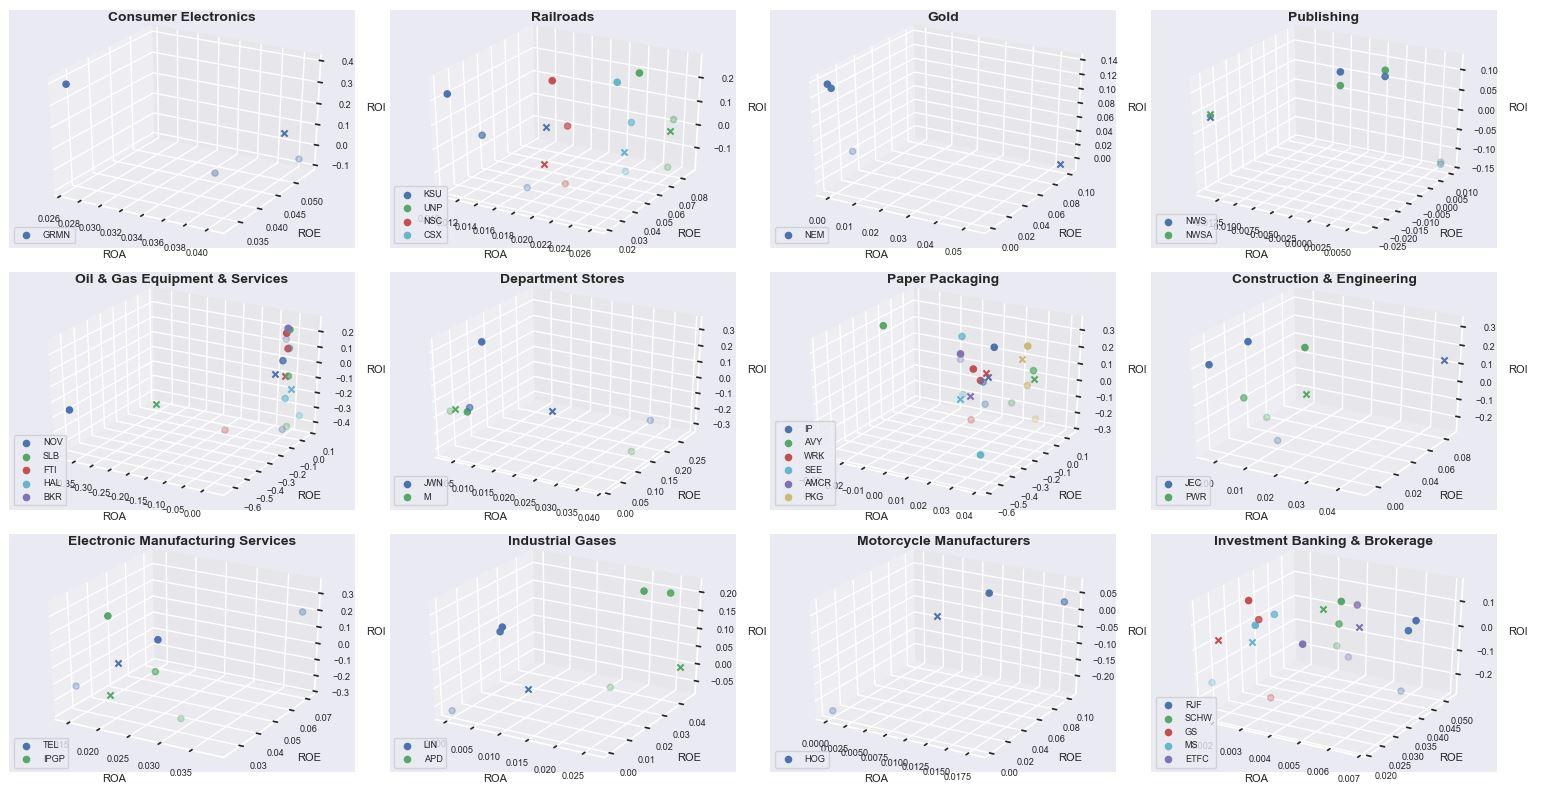
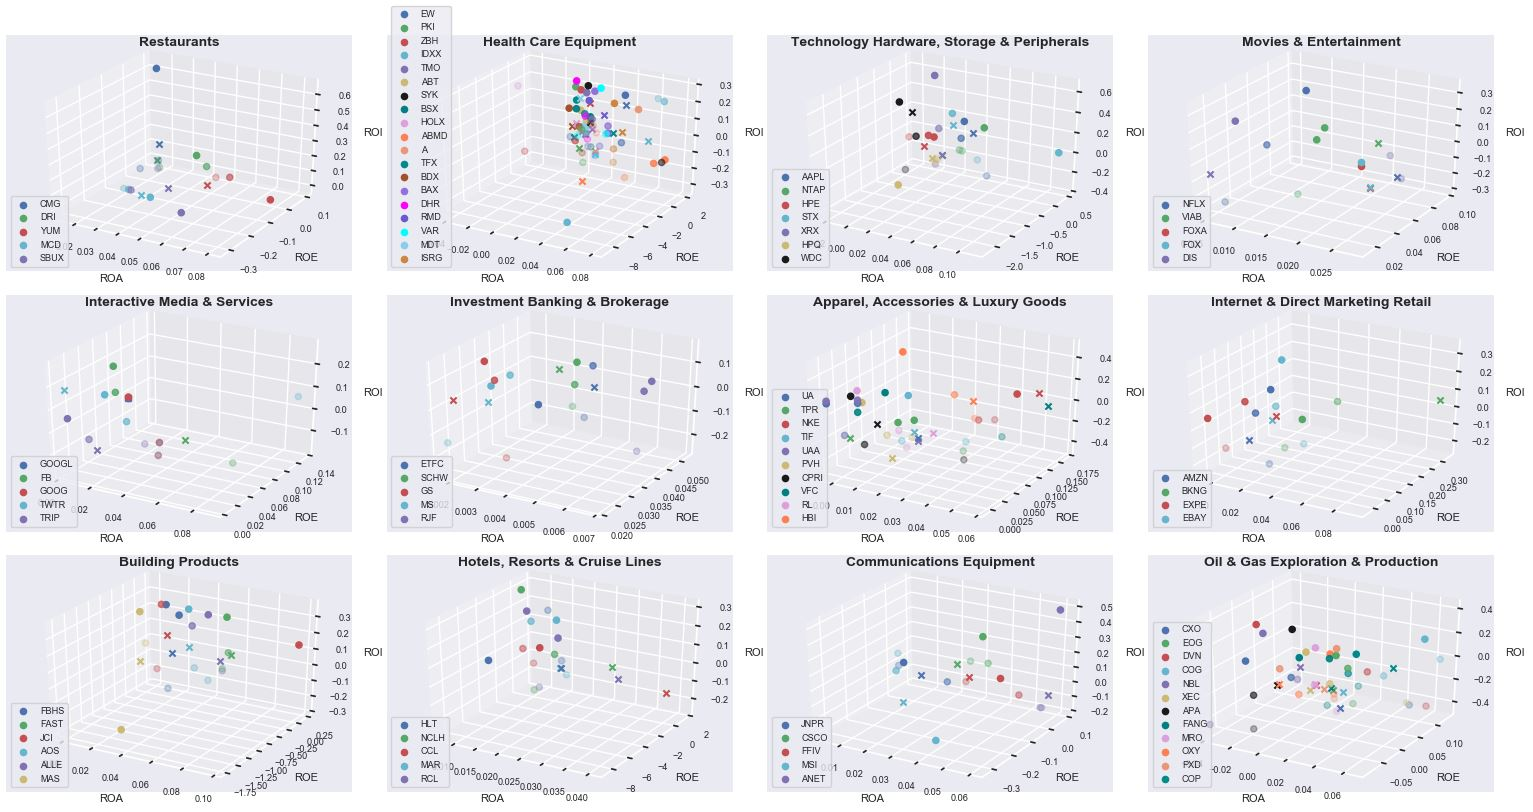
editing third post

diff --git a/_posts/2019-12-13-sector_fundamentals_plotting.md b/_posts/2019-12-13-sector_fundamentals_plotting.md
@@ -176,29 +176,12 @@ for i in range(1, 13):
 
 Here's the what the plot looks like:
 
+
+[![](/assets/images/sector_fundamentals_plotting/ROA,ROE,ROI_industry_plot.JPG)](/assets/images/sector_fundamentals_plotting/ROA,ROE,ROI_industry_plot.JPG)
+
+
 There are 4 points on each scatter that are the same color which shows that they are from the same company. You'll also notice that there are dots and x's in the scatter, the x's show the calculation using the most recent quarterly financials. 
 
-[![](/assets/images/sector_fundamentals_plotting/ROA,ROE,ROI_industry_plot0.JPG)](/assets/images/sector_fundamentals_plotting/ROA,ROE,ROI_industry_plot0.JPG)
-
-[![](/assets/images/sector_fundamentals_plotting/ROA,ROE,ROI_industry_plot1.JPG)](/assets/images/sector_fundamentals_plotting/ROA,ROE,ROI_industry_plot1.JPG)
-
-[![](/assets/images/sector_fundamentals_plotting/ROA,ROE,ROI_industry_plot2.JPG)](/assets/images/sector_fundamentals_plotting/ROA,ROE,ROI_industry_plot2.JPG)
-
-[![](/assets/images/sector_fundamentals_plotting/ROA,ROE,ROI_industry_plot3.JPG)](/assets/images/sector_fundamentals_plotting/ROA,ROE,ROI_industry_plot3.JPG)
-
-[![](/assets/images/sector_fundamentals_plotting/ROA,ROE,ROI_industry_plot4.JPG)](/assets/images/sector_fundamentals_plotting/ROA,ROE,ROI_industry_plot4.JPG)
-
-[![](/assets/images/sector_fundamentals_plotting/ROA,ROE,ROI_industry_plot5.JPG)](/assets/images/sector_fundamentals_plotting/ROA,ROE,ROI_industry_plot5.JPG)
-
-[![](/assets/images/sector_fundamentals_plotting/ROA,ROE,ROI_industry_plot6.JPG)](/assets/images/sector_fundamentals_plotting/ROA,ROE,ROI_industry_plot6.JPG)
-
-[![](/assets/images/sector_fundamentals_plotting/ROA,ROE,ROI_industry_plot7.JPG)](/assets/images/sector_fundamentals_plotting/ROA,ROE,ROI_industry_plot7.JPG)
-
-[![](/assets/images/sector_fundamentals_plotting/ROA,ROE,ROI_industry_plot8.JPG)](/assets/images/sector_fundamentals_plotting/ROA,ROE,ROI_industry_plot8.JPG)
-
-[![](/assets/images/sector_fundamentals_plotting/ROA,ROE,ROI_industry_plot9.JPG)](/assets/images/sector_fundamentals_plotting/ROA,ROE,ROI_industry_plot9.JPG)
-
-[![](/assets/images/sector_fundamentals_plotting/ROA,ROE,ROI_industry_plot10.JPG)](/assets/images/sector_fundamentals_plotting/ROA,ROE,ROI_industry_plot10.JPG)
 
 
 
